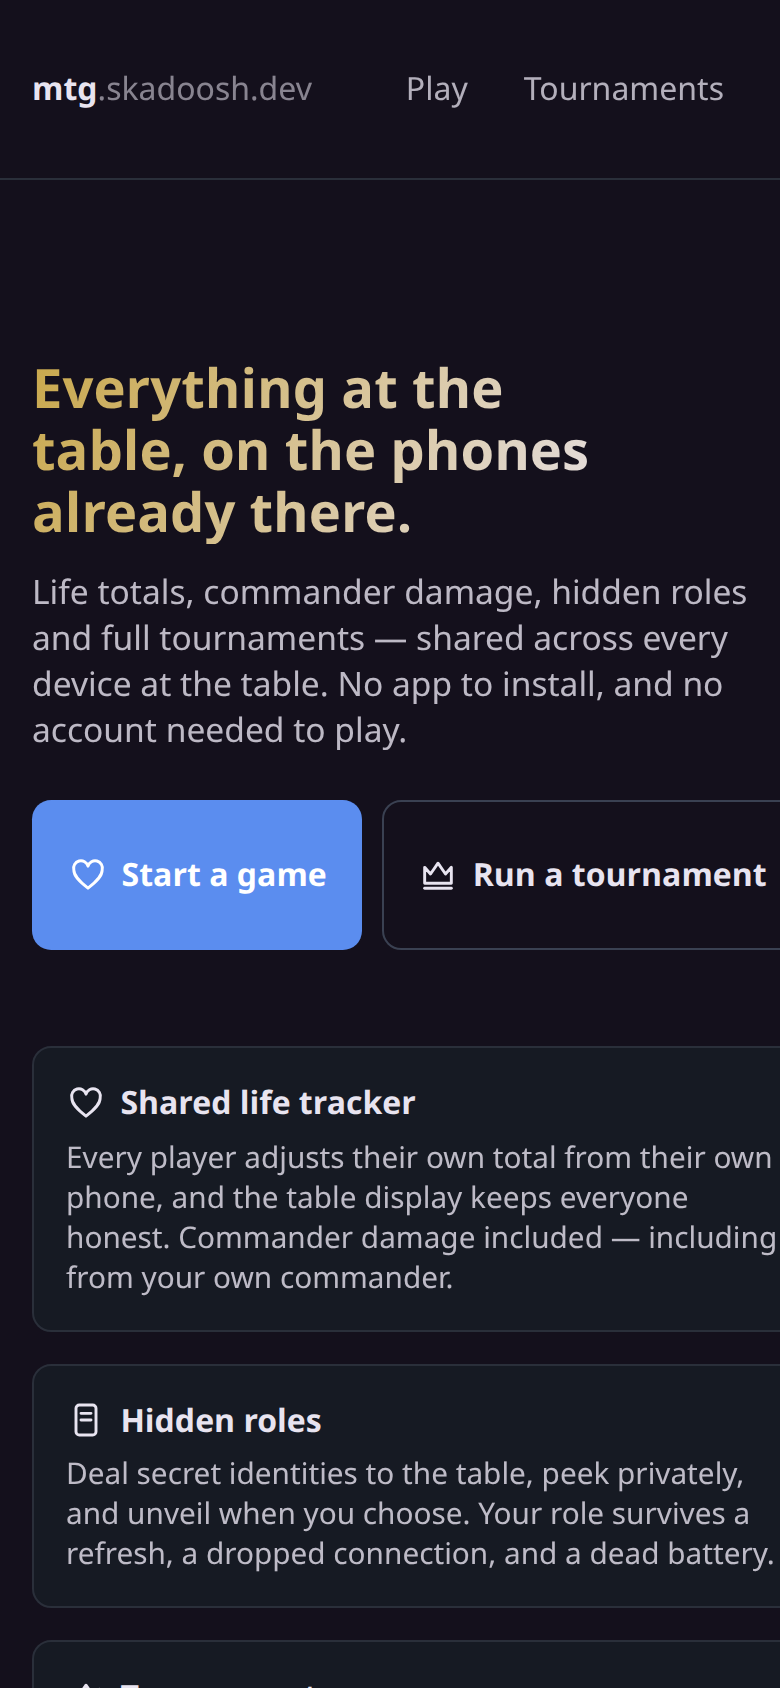
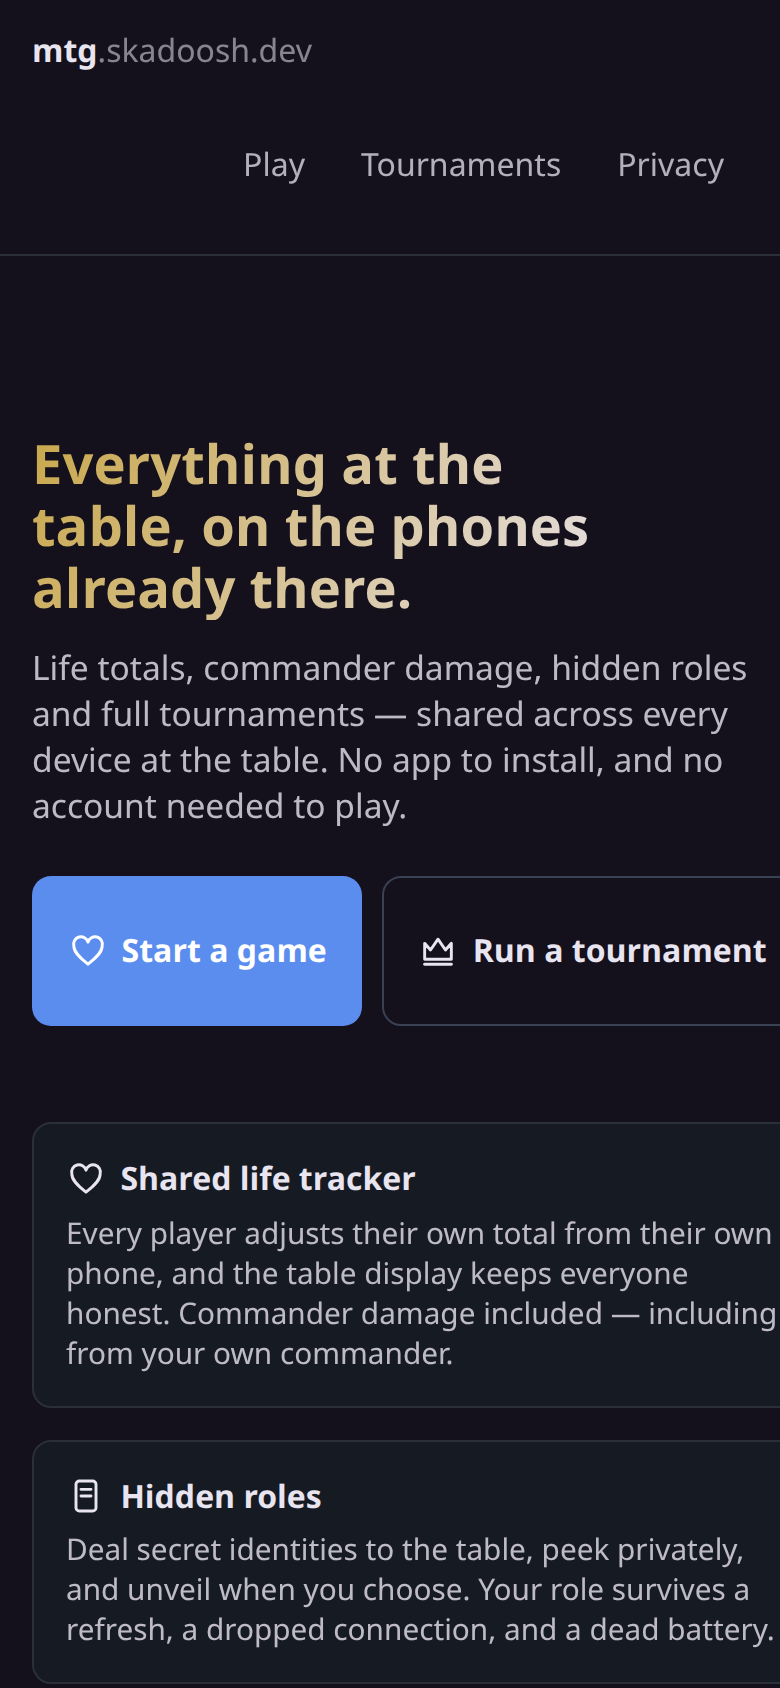
Make the privacy position enforced by the browser, and visible in the product
A stated position is worth little if nothing checks it. The app now sends its
own security headers rather than relying on a proxy config that isn't in this
repo and couldn't be verified: a strict Content-Security-Policy, Referrer-Policy
no-referrer, a Permissions-Policy denying every capability except the camera the
QR scanner asks for (including opting out of the advertising topics APIs),
nosniff, DENY framing, and HSTS.

The CSP is what turns "no third-party requests" from a promise into a rule the
browser enforces. Two browser tests hold it: the app must work under the policy
— a policy that silently breaks your own assets is worse than none, because it
fails in production long after the tests went green — and an off-origin fetch
must actually be blocked.

Testing it found two features I had reported as done that never shipped. Neither
"Show QR code" nor "Your games & notes" was ever passed to either menu: the
edits didn't match and I didn't check the result. Both are wired now, in the
lobby as well as mid-game, with the menu contents asserted.

The stance is on the front page instead of buried in a footer link, stated as
specifics that can be checked rather than adjectives — no accounts, no tracking,
no third-party requests, no banner, no stored addresses — each of which is
enforced by a test somewhere in the suite.

423 backend, 185 frontend unit, 52 browser.

diff --git a/frontend/e2e/privacy.spec.ts b/frontend/e2e/privacy.spec.ts
@@ -63,10 +63,51 @@ test.describe("privacy posture", () => {
 
   test("the privacy page lists what is stored, and is reachable", async ({ page }) => {
     await page.goto("/");
-    await page.getByRole("link", { name: /^privacy$/i }).click();
+    // reachable from the nav and the footer; either proves the point
+    await page.getByRole("link", { name: /^privacy$/i }).first().click();
     await expect(page).toHaveURL(/\/privacy$/);
     await expect(page.getByRole("heading", { name: /privacy/i })).toBeVisible();
     await expect(page.getByText(/no cookie banner/i).first()).toBeVisible();
     await expect(page.locator(".privacy-table")).toBeVisible();
+  });
+});
+
+test.describe("browser-enforced policy", () => {
+  test("a strict CSP doesn't break the app", async ({ page }) => {
+    // a policy that silently blocks the app's own assets is worse than none —
+    // it fails at runtime, in a browser, long after the tests passed
+    const violations: string[] = [];
+    page.on("console", (m) => {
+      const text = m.text();
+      if (/content security policy|refused to/i.test(text)) violations.push(text);
+    });
+    page.on("pageerror", (e) => violations.push(String(e)));
+
+    await page.goto("/");
+    await page.goto("/table");
+    await page.getByRole("button", { name: /create game/i }).click();
+    await page.getByPlaceholder(/your name/i).fill("ada");
+    await page.getByRole("button", { name: /create room/i }).click();
+    await page.waitForURL(/\/table\/r\/.+/);
+    // the websocket has to survive connect-src 'self'
+    await expect(page.locator(".room-bar")).toBeVisible();
+    await page.getByRole("button", { name: /menu/i }).click();
+    await page.getByRole("button", { name: /show qr code/i }).click();
+    await expect(page.locator(".qr-holder")).toBeVisible();
+
+    expect(violations, `CSP/runtime errors: ${violations.join(" | ")}`).toEqual([]);
+  });
+
+  test("the policy actually blocks a third-party load", async ({ page }) => {
+    await page.goto("/");
+    const blocked = await page.evaluate(async () => {
+      try {
+        await fetch("https://example.com/beacon", { mode: "no-cors" });
+        return false; // the policy let it through
+      } catch {
+        return true;
+      }
+    });
+    expect(blocked, "connect-src 'self' should stop an off-origin beacon").toBe(true);
   });
 });

diff --git a/frontend/src/site/Home.tsx b/frontend/src/site/Home.tsx
@@ -79,6 +79,40 @@ export default function Home() {
         </article>
       </section>
 
+      <section className="stance">
+        <h2>
+          <Icon name="check" /> Built privacy-first, and checkable
+        </h2>
+        <ul>
+          <li>
+            <strong>No accounts to play.</strong> No email, no password, no name beyond
+            the one you type at the table.
+          </li>
+          <li>
+            <strong>No tracking, no analytics, no ads.</strong> Nothing about you is
+            measured, profiled, sold or shared.
+          </li>
+          <li>
+            <strong>No third-party requests at all.</strong> No CDN, no hosted fonts, no
+            embedded widgets — the page loads from this server and nowhere else, and the
+            browser is told to enforce it.
+          </li>
+          <li>
+            <strong>No cookie banner</strong>, because there is nothing to consent to.
+            Everything stored is what makes your game work.
+          </li>
+          <li>
+            <strong>Your address is never stored.</strong> Rate limiting uses a salted
+            hash, kept thirty days.
+          </li>
+        </ul>
+        <p>
+          <Link className="cta ghost" to="/privacy">
+            Read exactly what is stored
+          </Link>
+        </p>
+      </section>
+
       <section className="shots">
         <h2>What it looks like</h2>
         <p className="lede">

diff --git a/frontend/src/table/Room.tsx b/frontend/src/table/Room.tsx
@@ -295,6 +295,8 @@ function RoomInner({ code, token }: { code: string; token: string }) {
           onTournament={state.tournament ? () => setTourneyOpen(true) : undefined}
           onDisplay={() => void toggleDisplay(true)}
           onTrack={() => void toggleTracking(true)}
+          onShowQr={() => setQrOpen(true)}
+          onMyGames={signedIn ? () => navigate("/table/me") : undefined}
           onLeave={() => void leave("Leave this room?")}
           leaveLabel="Leave room"
         />
@@ -341,6 +343,8 @@ function RoomInner({ code, token }: { code: string; token: string }) {
         onTournament={state.tournament ? () => setTourneyOpen(true) : undefined}
         onDisplay={() => void toggleDisplay(true)}
         onTrack={() => void toggleTracking(true)}
+        onShowQr={() => setQrOpen(true)}
+        onMyGames={signedIn ? () => navigate("/table/me") : undefined}
         onLeave={() => void leave(leaveMsg())}
       />
       {rulesOpen && (

diff --git a/frontend/e2e/table.spec.ts b/frontend/e2e/table.spec.ts
@@ -30,6 +30,8 @@ test.describe("a game at the table", () => {
     await expect(menu.getByRole("button", { name: /rename/i })).toBeVisible();
     await expect(menu.getByRole("button", { name: /show table view here/i })).toBeVisible();
     await expect(menu.getByRole("button", { name: /use as table display/i })).toBeVisible();
+    // present in the lobby too, not only mid-game: someone always arrives late
+    await expect(menu.getByRole("button", { name: /show qr code/i })).toBeVisible();
     // no tournament entry in an ordinary room — it only belongs in a pod
     await expect(menu.getByRole("button", { name: /tournament standings/i })).toHaveCount(0);
     // and no "your games" while signed out, where it would lead to a wall

diff --git a/frontend/src/layouts/layouts.css b/frontend/src/layouts/layouts.css
@@ -513,3 +513,28 @@ textarea:focus-visible,
   letter-spacing: 0.05em;
   opacity: 0.7;
 }
+
+/* The privacy stance sits in the page, not in the small print. */
+.stance {
+  margin-top: 2.5rem;
+  padding: 1.25rem;
+  border: 1px solid #2a3a4a;
+  border-radius: 0.7rem;
+  background: linear-gradient(180deg, rgba(90, 140, 255, 0.07), transparent);
+}
+
+.stance h2 {
+  display: flex;
+  align-items: center;
+  gap: 0.5rem;
+  margin: 0 0 0.75rem;
+  font-size: 1.1rem;
+}
+
+.stance ul {
+  margin: 0 0 1rem;
+  padding-left: 1.1rem;
+  display: grid;
+  gap: 0.5rem;
+  line-height: 1.5;
+}

diff --git a/frontend/src/nav.ts b/frontend/src/nav.ts
@@ -25,6 +25,7 @@ export interface NavItem {
 export const SITE_NAV: NavItem[] = [
   { label: "Play", to: "/table", icon: "heart", listed: true },
   { label: "Tournaments", to: "/tournament", icon: "crown", listed: true },
+  { label: "Privacy", to: "/privacy", icon: "note", listed: true },
 ];
 
 /**

diff --git a/backend/tests/test_main.py b/backend/tests/test_main.py
@@ -138,3 +138,56 @@ class TestStaticCaching:
         c = self._client(tmp_path)
         cc = c.get("/assets/index-abc123.js").headers["cache-control"]
         assert "immutable" in cc and "max-age=31536000" in cc
+
+
+class TestSecurityHeaders:
+    """The privacy position is only as good as what the browser enforces."""
+
+    def _res(self):
+        from fastapi.testclient import TestClient
+        from app.main import app
+        with TestClient(app, base_url="https://testserver") as c:
+            return c.get("/api/health")
+
+    def test_a_strict_policy_is_sent(self):
+        csp = self._res().headers["content-security-policy"]
+        assert "default-src 'self'" in csp
+        # the claim "no third-party requests" is this line
+        assert "connect-src 'self'" in csp
+        assert "object-src 'none'" in csp
+        assert "frame-ancestors 'none'" in csp
+        assert "base-uri 'none'" in csp
+
+    def test_no_unsafe_script_execution_is_allowed(self):
+        csp = self._res().headers["content-security-policy"]
+        assert "'unsafe-eval'" not in csp
+        # inline *scripts* stay forbidden; only style attributes are permitted
+        script = next(p for p in csp.split("; ") if p.startswith("script-src"))
+        assert "'unsafe-inline'" not in script
+
+    def test_urls_never_travel_in_a_referer(self):
+        assert self._res().headers["referrer-policy"] == "no-referrer"
+
+    def test_capabilities_are_denied_except_the_camera_we_ask_for(self):
+        pp = self._res().headers["permissions-policy"]
+        assert "camera=(self)" in pp
+        for denied in ("microphone=()", "geolocation=()", "payment=()"):
+            assert denied in pp
+        # advertising topics APIs are opted out of explicitly
+        assert "interest-cohort=()" in pp and "browsing-topics=()" in pp
+
+    def test_clickjacking_and_sniffing_are_blocked(self):
+        h = self._res().headers
+        assert h["x-frame-options"] == "DENY"
+        assert h["x-content-type-options"] == "nosniff"
+
+    def test_hsts_is_set(self):
+        assert "max-age=31536000" in self._res().headers["strict-transport-security"]
+
+    def test_headers_reach_the_app_pages_too_not_just_the_api(self):
+        from fastapi.testclient import TestClient
+        from app.main import app
+        with TestClient(app, base_url="https://testserver") as c:
+            r = c.get("/table")
+        assert "content-security-policy" in r.headers
+        assert r.headers["referrer-policy"] == "no-referrer"

diff --git a/backend/app/main.py b/backend/app/main.py
@@ -40,6 +40,56 @@ app.include_router(admin_router, prefix="/api/admin")
 _last_prune = 0.0
 
 
+# The browser-enforced half of the privacy position. The app claims no
+# third-party requests and no tracking; a Content-Security-Policy is what makes
+# that a rule the browser applies rather than a promise we make. Set here, in
+# the repo, rather than in a proxy config — so it is reviewable and testable
+# alongside the code it protects.
+CSP = "; ".join(
+    [
+        "default-src 'self'",
+        "script-src 'self'",
+        # inline *attributes* (style={{…}}) are used throughout the seat layout
+        "style-src 'self' 'unsafe-inline'",
+        "img-src 'self' data:",
+        # the QR scanner attaches a MediaStream to a <video>
+        "media-src 'self' blob:",
+        "font-src 'self'",
+        # same-origin only: this is what forbids a CDN or an analytics beacon
+        "connect-src 'self'",
+        "object-src 'none'",
+        "base-uri 'none'",
+        "form-action 'self'",
+        "frame-ancestors 'none'",
+        "upgrade-insecure-requests",
+    ]
+)
+
+SECURITY_HEADERS = {
+    "Content-Security-Policy": CSP,
+    # never send our URLs to anyone. Room addresses are opaque ids now, and
+    # this keeps them from travelling in a Referer even so.
+    "Referrer-Policy": "no-referrer",
+    # deny every capability except the camera, which the QR scanner asks for
+    "Permissions-Policy": (
+        "camera=(self), microphone=(), geolocation=(), payment=(), usb=(), "
+        "interest-cohort=(), browsing-topics=()"
+    ),
+    "X-Content-Type-Options": "nosniff",
+    "X-Frame-Options": "DENY",
+    "Cross-Origin-Opener-Policy": "same-origin",
+    "Strict-Transport-Security": "max-age=31536000; includeSubDomains",
+}
+
+
+@app.middleware("http")
+async def security_headers(request: Request, call_next):
+    response = await call_next(request)
+    for header, value in SECURITY_HEADERS.items():
+        response.headers.setdefault(header, value)
+    return response
+
+
 @app.middleware("http")
 async def rate_limit(request: Request, call_next):
     """Limit API traffic per client. Static assets are left alone — they are
